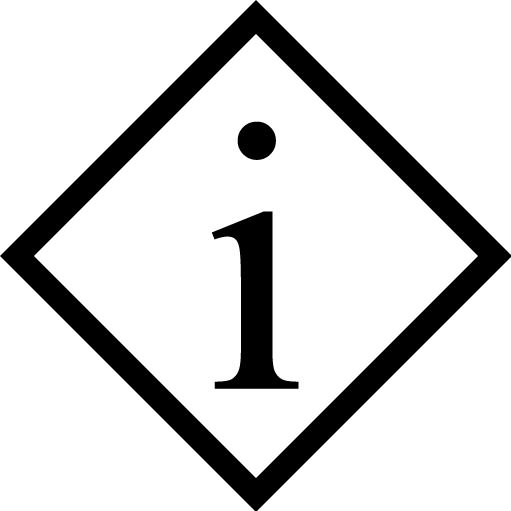
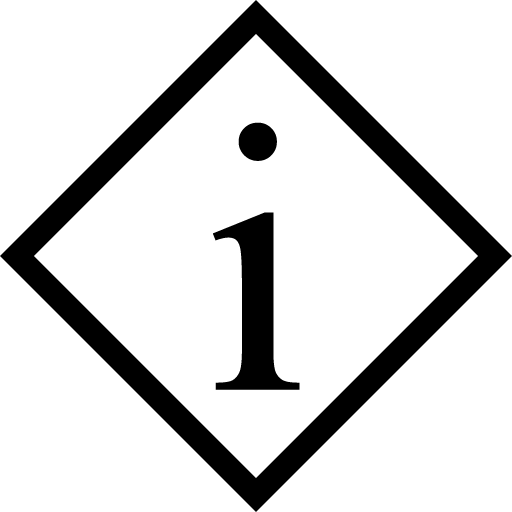
Change pictures; Fix divider jump
Change some 511x511 pic to 512x512;
Change some pictures' names;
Fix the jump when collapsing the TitledPane.

diff --git a/src/main/kotlin/ink/meodinger/lpfx/View.kt b/src/main/kotlin/ink/meodinger/lpfx/View.kt
@@ -452,26 +452,32 @@ class View(private val state: State) : BorderPane() {
                     }
                 }
                 add(TitledPane()) {
+                    // The max-height of TitledPane is the same as pref-height by default.
+                    // If we set it to Double.MAX_VALUE, the divider position will not change
+                    // when expand/collapse. If we only let it be MAX when it is expanded,
+                    // the divider position will have a jump when collapse if actual width is
+                    // bigger than pref-width. So we set it to MAX and manually control the position.
+                    maxHeight = Double.MAX_VALUE // Make TitledPane cannot change divider position
+
+                    // Manually control the divider animation
                     var lastDividerPosition = 0.0
                     expandedProperty().addListener(onNew {
-                        if (!it) {
-                            lastDividerPosition = dividerPositions[0]
-                        } else {
-                            /**
-                             * @see javafx.scene.control.skin.TitledPaneSkin.doAnimationTransition
-                             */
+                        if (it) {
+                            // @see javafx.scene.control.skin.TitledPaneSkin.doAnimationTransition
                             val keyValue = KeyValue(dividers[0].positionProperty(), lastDividerPosition, Interpolator.LINEAR)
-                            /**
-                             * @see javafx.scene.control.skin.TitledPaneSkin.TRANSITION_DURATION
-                             */
+                            // @see javafx.scene.control.skin.TitledPaneSkin.TRANSITION_DURATION
+                            val timeline = Timeline(KeyFrame(Duration.millis(350.0), keyValue))
+                            // Start animation
+                            timeline.play()
+                        } else {
+                            lastDividerPosition = dividerPositions[0]
+
+                            val keyValue = KeyValue(dividers[0].positionProperty(), 1.0, Interpolator.LINEAR)
                             val timeline = Timeline(KeyFrame(Duration.millis(350.0), keyValue))
                             timeline.play()
                         }
                     })
 
-                    maxHeightProperty().bind(expandedProperty().transform {
-                        if (it) Double.MAX_VALUE else prefHeight
-                    })
                     textProperty().bind(state.currentLabelIndexProperty().transform {
                         if (it == NOT_FOUND) emptyString() else it.toString()
                     })

diff --git a/src/main/kotlin/ink/meodinger/lpfx/Resources.kt b/src/main/kotlin/ink/meodinger/lpfx/Resources.kt
@@ -63,7 +63,7 @@ val IMAGE_INFO   : Image by lazy { loadAsImage("/file/image/dialog/Info.png") }
 /**
  * Image indicates WARNING
  */
-val IMAGE_WARNING: Image by lazy { loadAsImage("/file/image/dialog/Alert.png") }
+val IMAGE_WARNING: Image by lazy { loadAsImage("/file/image/dialog/Warning.png") }
 /**
  * Image indicates ERROR
  */
@@ -78,13 +78,13 @@ val INIT_IMAGE: Image by lazy {
         .takeIf(File::exists)?.let {
             Image(it.toURI().toURL().toString()).takeUnless(Image::isError)
                 ?: ImageIO.read(FileInputStream(it))?.let { image -> SwingFXUtils.toFXImage(image, null) }
-        } ?: loadAsImage("/file/image/init_image.png")
+        } ?: loadAsImage("/file/image/init-image.png")
 }
 
 /**
  * Sample Image for label propertis preview
  */
-val SAMPLE_IMAGE: Image by lazy { loadAsImage("/file/image/sample_320x320.jpg") }
+val SAMPLE_IMAGE: Image by lazy { loadAsImage("/file/image/sample-320x320.jpg") }
 
 // endregion
 
